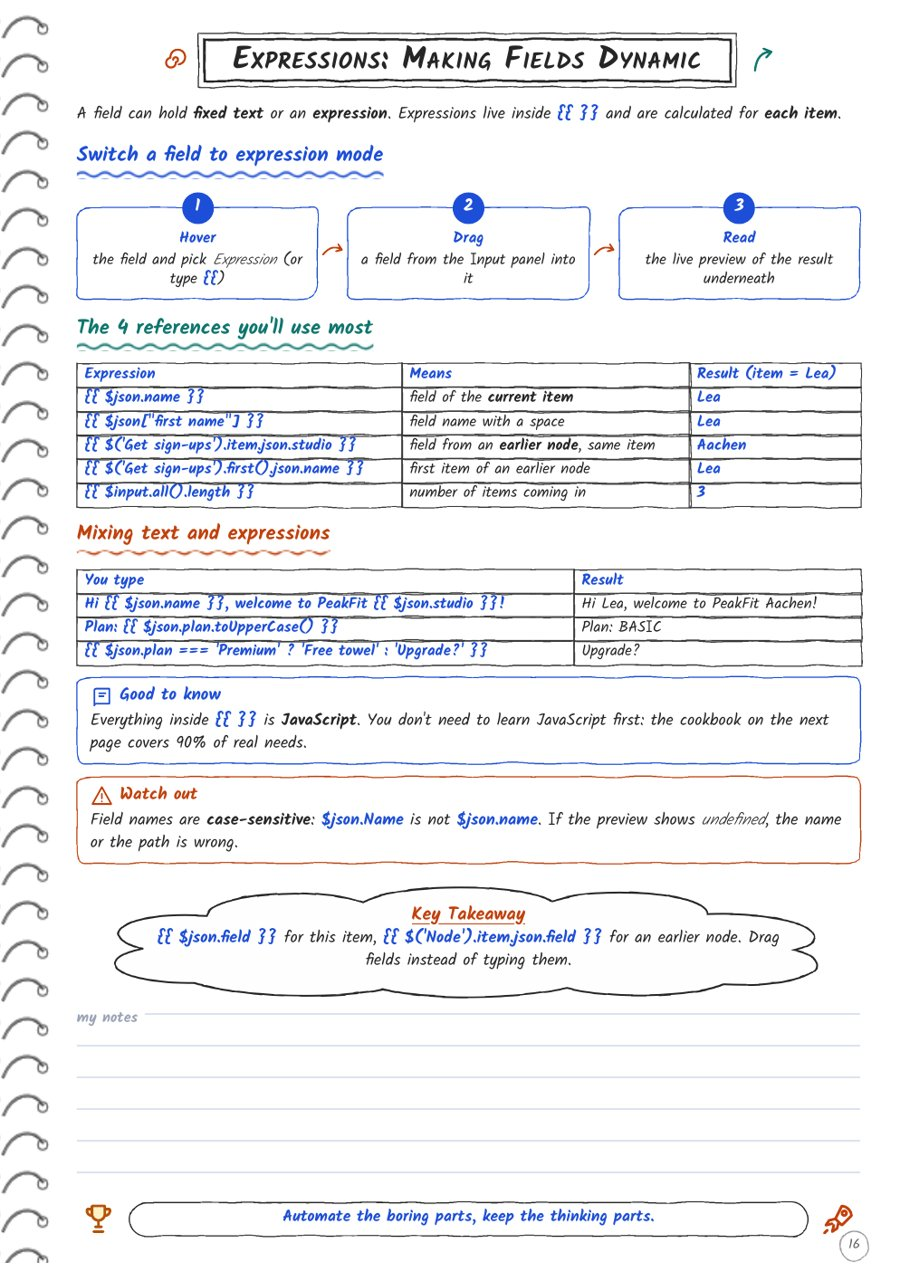
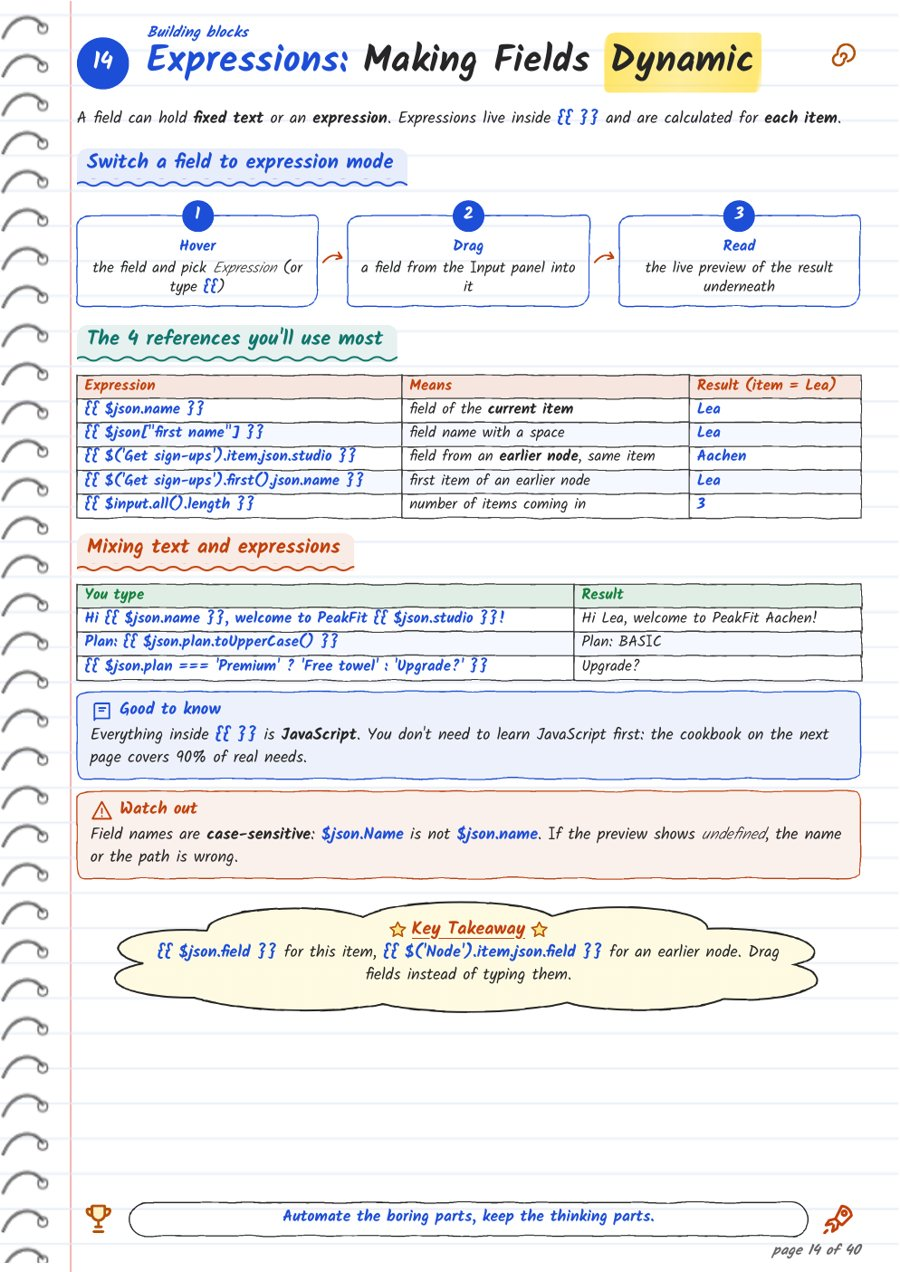
Learning Log #1: lead with Method 2's strengths, add average-token table, new n8n sample page
Title no longer implies a large saving; the table shows about 20 to 30%
fewer tokens per guide (planning estimate) and half the output.

Claude-Session: https://claude.ai/code/session_01MnXeeXzMe2SCqu59KfcsYC

Changed region(s): [[0.0622, 0.0, 0.9644, 0.8278], [0.6844, 0.1533, 0.9644, 0.2453], [0.8711, 0.9505, 0.9644, 1.0]]

diff --git a/_posts/2026-11-07-learning-log-01-handwritten-notes.md b/_posts/2026-11-07-learning-log-01-handwritten-notes.md
@@ -1,8 +1,8 @@
 ---
 layout: post
-title: "Two ways to make handwritten-style notes with AI, and why one uses far fewer tokens"
+title: "Two ways to make handwritten-style notes with AI, and why I switched"
 series: "Learning Log #1"
-summary: "Everyone shares those beautiful handwritten study notes. Here is how I first made them with one long prompt, and the cheaper method I use now."
+summary: "Everyone shares those beautiful handwritten study notes. Here is how I first made them with one long prompt, and the method I use now: about 30% fewer tokens, and free layout edits."
 date: 2026-11-07 00:00:00 +0100
 resources:
   - name: "Handwritten Notes Maker on GitHub"
@@ -31,11 +31,7 @@ My first approach was one long prompt, the same one for every topic:
 
 I described the look in one sentence and left everything else (fonts, layout, how many pages) to Claude. Claude researched the topic, wrote the content, designed the pages and built the PDF, all in one go.
 
-**Why it costs a lot of tokens:**
-- **Claude does every job:** research, writing, layout and creating the PDF itself. All of that work counts.
-- **"As many pages as needed" means a very long answer.**
-- **Every new topic repeats the full job,** including the design work.
-- **Any fix means another full run.** And the look changes from topic to topic.
+It works well for a single guide. The catch is that Claude also has to build the layout each time, and any layout fix (a box that overflows, text out of line) means another round in Claude.
 
 ## Method 2: the design is fixed, Claude writes only the content
 
@@ -52,6 +48,13 @@ I described the look in one sentence and left everything else (fonts, layout, ho
 - It turns the Markdown into an HTML page first, because HTML lines the text up properly, then prints that page to PDF.
 - It doesn't matter how many HTML files or formats it creates along the way. This all runs locally, so it costs nothing.
 
+**Why I prefer it:**
+- **Alignment is handled for me.** Text, tables and boxes line up the same way on every page.
+- **Layout edits are free.** Change a colour, a font or the page style in one setting and re-run. No new Claude chat.
+- **Every guide looks the same,** so my notes feel like one notebook.
+- **Claude's effort goes into the content:** research, explanations, examples and the Key Takeaway on each page.
+- **Long topics are easy.** I split them into several Markdown files and build each one locally.
+
 ## The two methods as a flow
 
 <div class="flows">
@@ -64,7 +67,7 @@ I described the look in one sentence and left everything else (fonts, layout, ho
       <div class="arrow"></div>
       <div class="node hot">Claude creates the PDF<small>all inside Claude</small></div>
     </div>
-    <div class="loop hot-loop">↺ New topic or a fix? Claude repeats the whole job, and every step uses tokens</div>
+    <div class="loop hot-loop">↺ Layout fix? Another round in Claude</div>
   </div>
   <div class="flow m2">
     <p class="flow-title">Method 2 · Claude writes, my notebook builds</p>
@@ -81,16 +84,31 @@ I described the look in one sentence and left everything else (fonts, layout, ho
   </div>
 </div>
 
+## Average tokens per guide
+
+A planning estimate for a 20-page guide with the same research and roughly the same amount of text. These are averages, not measured usage.
+
+| Work Claude does | Method 1 | Method 2 |
+|---|---:|---:|
+| My instructions (prompt, plus format guide in Method 2) | ~300 | ~2,200 |
+| Research and source reading | ~15,000 | ~15,000 |
+| Writing the guide | ~7,000 | ~8,000 |
+| Building the PDF, checking pages, fixing layout | ~10,000 | 0 (Python on my laptop) |
+| **Total** | **~32,000** | **~25,000** |
+| **Of which Claude writes** | **~17,000** | **~8,000** |
+
+So Method 2 uses **about 20 to 30% fewer tokens per guide**, and Claude writes **about half as much**. The saving grows when a layout needs several rounds of fixes, because in Method 2 those happen on my laptop for free.
+
 ## What each method produced
 
 <div class="compare">
   <figure>
     <a href="/files/log-01-method1-page.jpg"><img src="/files/log-01-method1-page.jpg" alt="A page from the Method 1 SQL notes"></a>
-    <figcaption><strong>Method 1:</strong> SQL notes, 25 pages. Claude chose the whole design.</figcaption>
+    <figcaption><strong>Method 1:</strong> SQL notes, 25 pages. Claude designed and built the PDF.</figcaption>
   </figure>
   <figure>
     <a href="/files/log-01-method2-page.jpg"><img src="/files/log-01-method2-page.jpg" alt="A page from the Method 2 n8n notes"></a>
-    <figcaption><strong>Method 2:</strong> n8n notes, 42 pages. Same design every time, built for free.</figcaption>
+    <figcaption><strong>Method 2:</strong> n8n notes, 42 pages. Same layout every time, built locally for free.</figcaption>
   </figure>
 </div>
 
